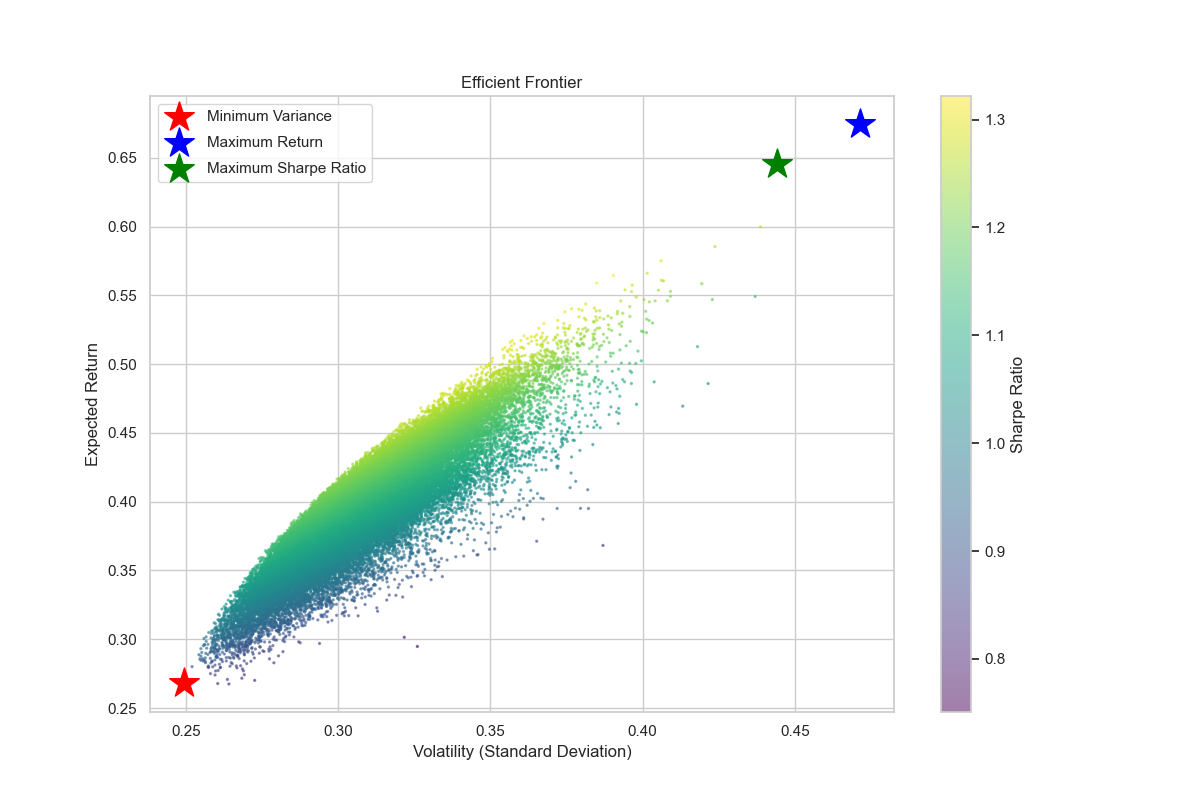
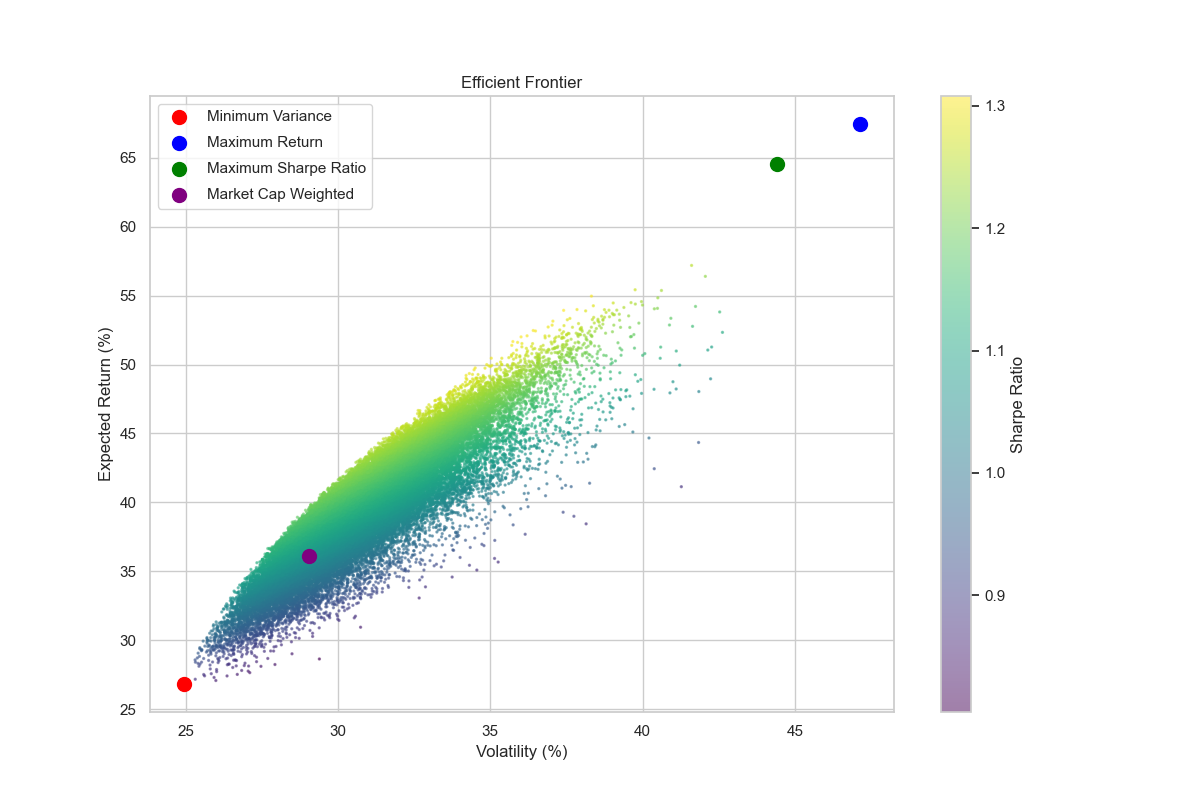
Var and CVar

diff --git a/main.py b/main.py
@@ -8,7 +8,7 @@ import seaborn as sns
 import warnings
 
 # Suppress warnings
-# warnings.filterwarnings("ignore", category=RuntimeWarning)
+warnings.filterwarnings("ignore", category=RuntimeWarning)
 
 # Set the style for seaborn
 sns.set(style='whitegrid')
@@ -18,18 +18,27 @@ tickers = ['AAPL', 'MSFT', 'GOOGL', 'TSLA', 'NVDA', 'AMD', 'META']
 
 # Adjust the end date to today's date
 end_date = datetime.today().strftime('%Y-%m-%d')
-data = yf.download(tickers, start='2015-01-01', end=end_date)['Adj Close']
+start_date = '2015-01-01'
 
-# Handle missing data by forward filling
-data = data.ffill()
+# Fetch data with error handling
+try:
+    data = yf.download(tickers, start=start_date, end=end_date)['Adj Close']
+    data = data.ffill()
+except Exception as e:
+    print(f"Error fetching data: {e}")
 
 returns = data.pct_change().dropna()
+
+# Check for NaNs and zeros in returns
+if returns.isnull().values.any():
+    print("Data contains NaNs. Dropping NaNs.")
+    returns = returns.dropna()
 
 # Step 2: Calculate mean returns and covariance matrix
 mean_returns = returns.mean()
 cov_matrix = returns.cov()
 num_assets = len(tickers)
-risk_free_rate = 0.05  # Keep at 5% as per your request
+risk_free_rate = 0.05  # 5% annual risk-free rate
 
 # Function to calculate portfolio performance
 def portfolio_performance(weights, mean_returns, cov_matrix):
@@ -38,7 +47,7 @@ def portfolio_performance(weights, mean_returns, cov_matrix):
     return returns, volatility
 
 # Constraints and bounds
-constraints = ({'type': 'eq', 'fun': lambda x: np.sum(x) - 1})
+constraints = {'type': 'eq', 'fun': lambda x: np.sum(x) - 1}
 bounds = tuple((0.01, 1) for _ in range(num_assets))  # Minimum weight of 1%
 
 # Initial guess
@@ -60,6 +69,7 @@ opt_min_variance = minimize(
     constraints=constraints,
     options=options
 )
+
 min_var_weights = opt_min_variance.x
 min_var_return, min_var_volatility = portfolio_performance(min_var_weights, mean_returns, cov_matrix)
 min_var_sharpe = (min_var_return - risk_free_rate) / min_var_volatility
@@ -77,6 +87,7 @@ opt_max_return = minimize(
     constraints=constraints,
     options=options
 )
+
 max_return_weights = opt_max_return.x
 max_return_return, max_return_volatility = portfolio_performance(max_return_weights, mean_returns, cov_matrix)
 max_return_sharpe = (max_return_return - risk_free_rate) / max_return_volatility
@@ -95,25 +106,46 @@ opt_max_sharpe = minimize(
     constraints=constraints,
     options=options
 )
+
 max_sharpe_weights = opt_max_sharpe.x
 max_sharpe_return, max_sharpe_volatility = portfolio_performance(max_sharpe_weights, mean_returns, cov_matrix)
 max_sharpe_ratio = (max_sharpe_return - risk_free_rate) / max_sharpe_volatility
+
+# **D. Market Cap Weighted Portfolio**
+
+# Fetch market capitalization data
+market_caps = {}
+for ticker in tickers:
+    stock_info = yf.Ticker(ticker).info
+    market_caps[ticker] = stock_info.get('marketCap', 0)
+
+# Handle any missing market cap data
+total_market_cap = sum(market_caps.values())
+market_cap_weights = np.array([market_caps[ticker] for ticker in tickers]) / total_market_cap
+
+# Ensure weights sum to 1
+market_cap_weights /= np.sum(market_cap_weights)
+
+# Calculate performance
+mc_return, mc_volatility = portfolio_performance(market_cap_weights, mean_returns, cov_matrix)
+mc_sharpe = (mc_return - risk_free_rate) / mc_volatility
 
 # **Display Portfolio Weights and Performance**
 
 def display_portfolio(weights, portfolio_name):
     print(f"\n{portfolio_name} Portfolio Weights:")
     for ticker, weight in zip(tickers, weights):
-        print(f"{ticker}: {weight:.2%}")
+        print(f"{ticker}: {weight*100:.2f}%")
     p_return, p_volatility = portfolio_performance(weights, mean_returns, cov_matrix)
     p_sharpe = (p_return - risk_free_rate) / p_volatility
-    print(f"Expected Annual Return: {p_return:.2%}")
-    print(f"Annual Volatility (Risk): {p_volatility:.2%}")
+    print(f"Expected Annual Return: {p_return*100:.2f}%")
+    print(f"Annual Volatility (Risk): {p_volatility*100:.2f}%")
     print(f"Sharpe Ratio: {p_sharpe:.2f}")
 
 display_portfolio(min_var_weights, "Minimum Variance")
 display_portfolio(max_return_weights, "Maximum Return")
 display_portfolio(max_sharpe_weights, "Maximum Sharpe Ratio")
+display_portfolio(market_cap_weights, "Market Cap Weighted")
 
 # **Plot Efficient Frontier and Portfolios**
 
@@ -126,8 +158,8 @@ def random_portfolios(num_portfolios, mean_returns, cov_matrix, risk_free_rate):
         weights_record.append(weights)
         p_return, p_volatility = portfolio_performance(weights, mean_returns, cov_matrix)
         p_sharpe = (p_return - risk_free_rate) / p_volatility
-        results[0, i] = p_volatility
-        results[1, i] = p_return
+        results[0, i] = p_volatility * 100  # Convert to percentage
+        results[1, i] = p_return * 100      # Convert to percentage
         results[2, i] = p_sharpe
     return results, weights_record
 
@@ -137,28 +169,32 @@ results, _ = random_portfolios(50000, mean_returns, cov_matrix, risk_free_rate)
 plt.figure(figsize=(12, 8))
 plt.scatter(results[0], results[1], c=results[2], cmap='viridis', s=2, alpha=0.5)
 plt.colorbar(label='Sharpe Ratio')
-plt.xlabel('Volatility (Standard Deviation)')
-plt.ylabel('Expected Return')
+plt.xlabel('Volatility (%)')
+plt.ylabel('Expected Return (%)')
 plt.title('Efficient Frontier')
 
 # Plotting the portfolios as circles with adjusted sizes
-plt.scatter(min_var_volatility, min_var_return, color='red', marker='o', s=100, label='Minimum Variance')
-plt.scatter(max_return_volatility, max_return_return, color='blue', marker='o', s=100, label='Maximum Return')
-plt.scatter(max_sharpe_volatility, max_sharpe_return, color='green', marker='o', s=100, label='Maximum Sharpe Ratio')
+plt.scatter(min_var_volatility * 100, min_var_return * 100, color='red', marker='o', s=100, label='Minimum Variance')
+plt.scatter(max_return_volatility * 100, max_return_return * 100, color='blue', marker='o', s=100, label='Maximum Return')
+plt.scatter(max_sharpe_volatility * 100, max_sharpe_return * 100, color='green', marker='o', s=100, label='Maximum Sharpe Ratio')
+plt.scatter(mc_volatility * 100, mc_return * 100, color='purple', marker='o', s=100, label='Market Cap Weighted')
 
 plt.legend(labelspacing=0.8)
-plt.show()
+plt.savefig('efficient_frontier.png')
+plt.close()
 
 # **Monte Carlo Simulation and VaR/CVaR Calculations**
 
-def monte_carlo_simulation(mean_returns, cov_matrix, weights, num_simulations=10000):
+def monte_carlo_simulation(mean_returns, cov_matrix, weights, num_simulations=10000, num_days=252):
     port_returns = []
     for _ in range(num_simulations):
-        # Simulate daily returns
-        simulated_returns = np.random.multivariate_normal(mean_returns, cov_matrix)
-        # Calculate portfolio return
-        port_return = np.sum(simulated_returns * weights)
-        port_returns.append(port_return)
+        # Simulate daily returns over the year
+        daily_returns = np.random.multivariate_normal(mean_returns, cov_matrix, num_days)
+        # Calculate portfolio daily returns
+        port_daily_returns = np.sum(daily_returns * weights, axis=1)
+        # Compound daily returns to get annual return
+        port_cumulative_return = np.prod(1 + port_daily_returns) - 1
+        port_returns.append(port_cumulative_return)
     port_returns = np.array(port_returns)
     return port_returns
 
@@ -174,23 +210,26 @@ def calculate_var_cvar(portfolio_returns, confidence_level=0.95):
 portfolios = {
     'Minimum Variance': min_var_weights,
     'Maximum Return': max_return_weights,
-    'Maximum Sharpe Ratio': max_sharpe_weights
+    'Maximum Sharpe Ratio': max_sharpe_weights,
+    'Market Cap Weighted': market_cap_weights
 }
 
 for name, weights in portfolios.items():
     # Monte Carlo Simulation
     portfolio_returns = monte_carlo_simulation(mean_returns, cov_matrix, weights)
-    # Annualize the returns
-    portfolio_returns_annualized = portfolio_returns * 252
+    # The portfolio_returns are already annualized through compounding
     # Calculate VaR and CVaR
-    var, cvar = calculate_var_cvar(portfolio_returns_annualized, confidence_level=0.95)
+    var, cvar = calculate_var_cvar(portfolio_returns, confidence_level=0.95)
     print(f"\n{name} Portfolio:")
-    print(f"Value at Risk (95% confidence): {var:.2f}%")
-    print(f"Conditional Value at Risk (95% confidence): {cvar:.2f}%")
+    print(f"Value at Risk (95% confidence): {var*100:.2f}%")
+    print(f"Conditional Value at Risk (95% confidence): {cvar*100:.2f}%")
     # Plot the distribution
     plt.figure(figsize=(10, 6))
-    sns.histplot(portfolio_returns_annualized, bins=50, kde=True, color='skyblue')
+    sns.histplot(portfolio_returns * 100, bins=50, kde=True, color='skyblue')
     plt.title(f'Distribution of Simulated Annual Returns ({name} Portfolio)')
     plt.xlabel('Simulated Annual Return (%)')
     plt.ylabel('Frequency')
-    plt.show()
+    # Save the plot
+    filename = f'{name.lower().replace(" ", "_")}_returns_distribution.png'
+    plt.savefig(filename)
+    plt.close()
